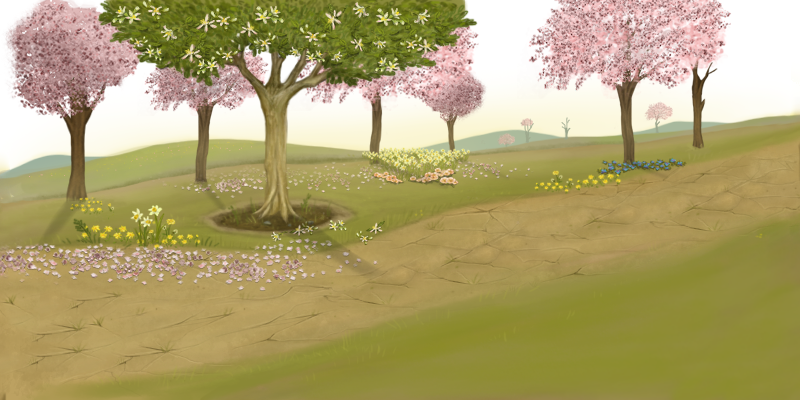
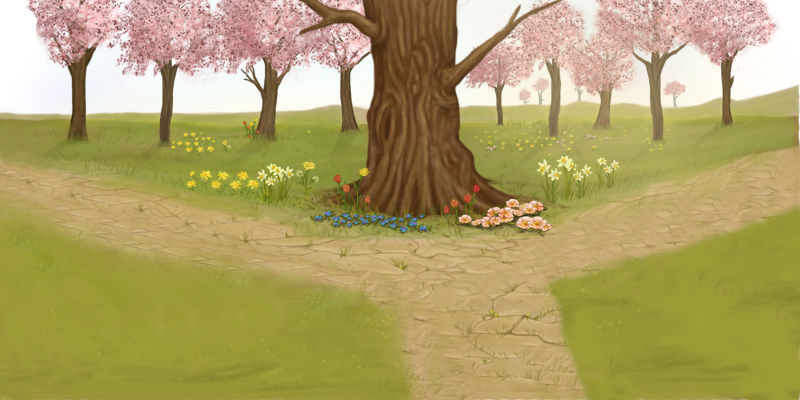
разработка лвлов 2, bg

diff --git a/player.py b/player.py
@@ -15,7 +15,7 @@ class Player(pygame.sprite.Sprite):
 		self.speed = 4	
 		self.direction = player_direction
 		self.detector = player_detector
-		self.level = 0
+		self.level = 3
 
 	def draw(self, sc):
 		global img_counter
@@ -50,17 +50,22 @@ class Player(pygame.sprite.Sprite):
 			if self.x >= 0:
 				self.direction = 1
 				self.x -= self.speed
+			else:
+				if self.level >= 1:
+					self.level -= 1
+					self.x = WIDTH - 83
+				else:
+					pass
 		if keys[pygame.K_d]:
 			if self.x <= WIDTH - 59:
 				self.direction = 0
 				self.x += self.speed
 			else:
-				if self.level <= 2:
+				if self.level <= 3:
 					self.level += 1
 					self.x = 20
 				else:
-					self.level = 0
-					self.x = 20
+					pass
 		if keys[pygame.K_w]:
 			if self.y >= 25:
 				self.y -= self.speed

diff --git a/main.py b/main.py
@@ -13,7 +13,7 @@ sc = pygame.display.set_mode((WIDTH, HEIGHT))
 pygame.display.set_caption('FBMP')
 
 
-bg = [pygame.image.load('backgrounds//1.png'), pygame.image.load('backgrounds//2.png'), pygame.image.load('backgrounds//3.png')]
+bg = [pygame.image.load('backgrounds//1.png'), pygame.image.load('backgrounds//2.png'), pygame.image.load('backgrounds//3.png'), pygame.image.load('backgrounds//4.png'), pygame.image.load('backgrounds//5.png')]
 #switch = Switch()
 
 n = Network(server_input, port)

diff --git a/server.py b/server.py
@@ -47,8 +47,8 @@ def threaded_client(conn, player):
 					reply = players[0]
 				else:
 					reply = players[1]
-					print("Received: ", data)
-					print("Sending: ", reply)
+#					print("Received: ", data)
+#					print("Sending: ", reply)
 
 			conn.sendall(pickle.dumps(reply))
 		except:
